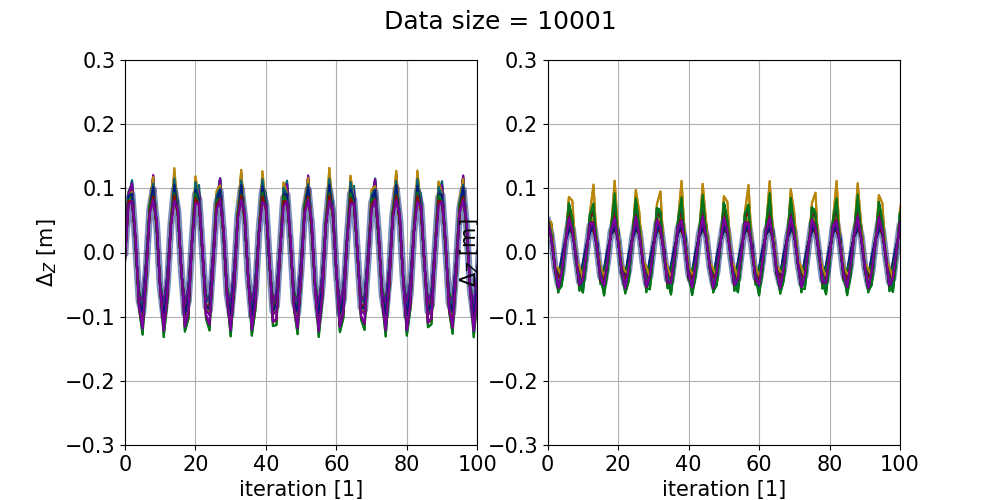
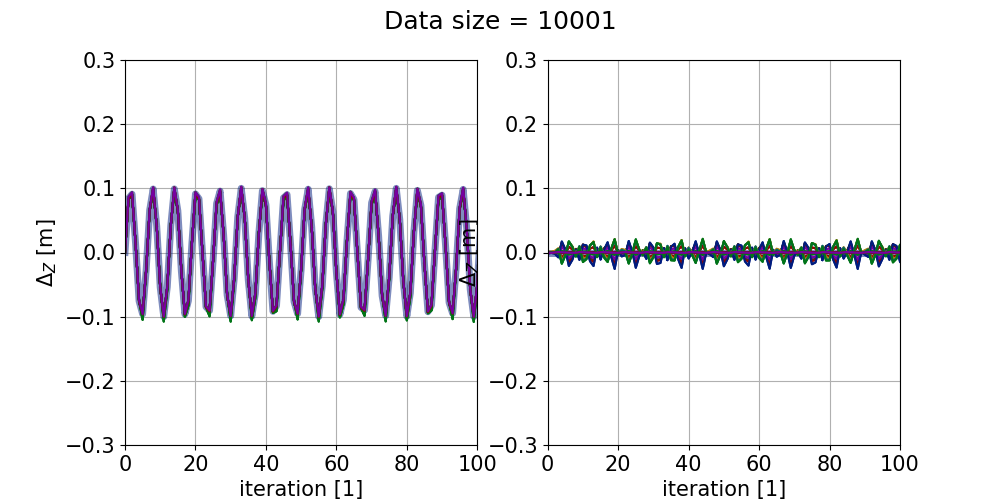
add csv result of CCD to save_path

Changed region(s): [[0.124, 0.33, 0.496, 0.66], [0.527, 0.36, 0.899, 0.6]]

diff --git a/simulation/simulation_toroidal_filament.py b/simulation/simulation_toroidal_filament.py
@@ -4,17 +4,22 @@ import os
 import numpy as np
 import pandas as pd
 
+# import matplotlib
+# matplotlib.use("QtAgg")
+
 sys.path.append(os.path.abspath(os.path.join(os.path.dirname(__file__), '..')))
 
 from methods_script.toroidal_filament.DxDz import cal_newton_DxDz as cal_DxDz
 from methods_script.toroidal_filament.plasma_shift import toroidal_filament_shift_progression
 from methods_script.toroidal_filament.signal_strength import coil_signal
-from methods_script.toroidal_filament.parameters import coil_angle_dict, R0, R, all_arrays, probe_lst_to_str
+from methods_script.toroidal_filament.parameters import coil_angle_dict, R0, R, all_arrays, probe_lst_to_str, I
 ### simulate magnetic probe signal
 plt.rcParams.update({
     "font.size":15
 })
 plt.style.use("seaborn-v0_8-dark-palette")
+
+save_path = "/home/piti-archlinux/Projects/TT1/TT1-EFIT"
 
 np.random.seed(0)
 def simulate_signal_df(dR_all, dZ_all):
@@ -62,70 +67,93 @@ def add_absolute_err(df:pd.DataFrame):
 if __name__ == "__main__":
     #define simulation parameters
 
-    R_amp, Z_amp = 0.1, 0.05    #Amplitudes of R and Z oscillation
-    iteration_array = pd.Series(np.arange(0,10_001,1)) # iteration steps
-    #define displacement of dR and dZ at all iterations
-    dR_all, dZ_all = pd.Series(R_amp * np.sin(iteration_array),name = "defined"), pd.Series(Z_amp * np.cos(iteration_array), name = "defined")
+    R_amp, Z_amp = 0.1, 0.0
+
+    iteration_array = pd.Series(np.linspace(0, 440, 200) / 1000.0)
+
+    phase = 2 * np.pi * iteration_array / iteration_array.max()
+
+    dR_all = pd.Series( 
+        R_amp * np.sin(
+            2 * np.pi * (iteration_array)
+            / (iteration_array.iloc[-1])
+        ), name = "defined"
+    )
+
+    dZ_all = pd.Series(
+        Z_amp * np.cos(phase),
+        name="defined"
+    )
 
     use_probes = all_arrays # set of magnetic probes to use in toroidal filament model
 
     #simulate magnetic field table
     signal_df = simulate_signal_df(dR_all, dZ_all)
 
-    ### calculate plasma shift
-    valid_iteration, R_arr, R_err, Z_arr, Z_err =  toroidal_filament_shift_progression(iteration_array,signal_df,use_probes)
+    tfm_df = pd.concat(
+        [dR_all.rename("R0") + R0, dZ_all.rename("Z0"), signal_df],
+        axis=1
+        )
+    tfm_df["Time step"] = iteration_array
+    tfm_df["Ip"] = I * np.ones_like(iteration_array)
 
-    #convert calculation result of each probe into data frame
-    dR_df = pd.DataFrame(data = np.array(R_arr).transpose(), columns = [probe_lst_to_str(probe_set) for probe_set in use_probes])
-    dZ_df = pd.DataFrame(data = np.array(Z_arr).transpose(), columns = [probe_lst_to_str(probe_set) for probe_set in use_probes])
+    tfm_df.to_csv(os.path.join(save_path,"tfm_df.csv"), index=False)
+    
 
-    #adjust index of dataframe
-    # Due to predefined shift_value at (0,0) in plasma_shift.py the row indices of defined and calculated are mismatched
+    # ### calculate plasma shift
+    # valid_iteration, R_arr, R_err, Z_arr, Z_err =  toroidal_filament_shift_progression(iteration_array,signal_df,use_probes)
 
-    def adjust_index(df:pd.DataFrame):
-        for col in df.columns:
-            df[col] = df[col].iloc[1:].reset_index(drop=True)
-        return
-    adjust_index(dR_df)
-    adjust_index(dZ_df)
+    # #convert calculation result of each probe into data frame
+    # dR_df = pd.DataFrame(data = np.array(R_arr).transpose(), columns = [probe_lst_to_str(probe_set) for probe_set in use_probes])
+    # dZ_df = pd.DataFrame(data = np.array(Z_arr).transpose(), columns = [probe_lst_to_str(probe_set) for probe_set in use_probes])
 
-    #add defined value of displacement
-    dR_df = pd.concat([dR_df, dR_all], axis = 1)
-    dZ_df = pd.concat([dZ_df, dZ_all], axis = 1)
+    # #adjust index of dataframe
+    # # Due to predefined shift_value at (0,0) in plasma_shift.py the row indices of defined and calculated are mismatched
 
-    add_absolute_err(dR_df)
-    add_absolute_err(dZ_df)
-    error_txt_path = os.path.join("simulation","TFM_error")
-    dR_df.filter(like = "error",axis = 1).describe().to_string(os.path.join(error_txt_path,"radialError.txt"))
-    dZ_df.filter(like = "error",axis = 1).describe().to_string(os.path.join(error_txt_path, "verticalError.txt"))
+    # def adjust_index(df:pd.DataFrame):
+    #     for col in df.columns:
+    #         df[col] = df[col].iloc[1:].reset_index(drop=True)
+    #     return
+    # adjust_index(dR_df)
+    # adjust_index(dZ_df)
 
-    print(f"Simulation statistic saved to {error_txt_path}")
+    # #add defined value of displacement
+    # dR_df = pd.concat([dR_df, dR_all], axis = 1)
+    # dZ_df = pd.concat([dZ_df, dZ_all], axis = 1)
 
-    fig, ax = plt.subplots(1,2,figsize = (10,5))
+    # add_absolute_err(dR_df)
+    # add_absolute_err(dZ_df)
+    # error_txt_path = os.path.join("simulation","TFM_error")
+    # dR_df.filter(like = "error",axis = 1).describe().to_string(os.path.join(error_txt_path,"radialError.txt"))
+    # dZ_df.filter(like = "error",axis = 1).describe().to_string(os.path.join(error_txt_path, "verticalError.txt"))
 
-    ax[0].plot(iteration_array, dR_all, label = "R sim", lw = 5, alpha = 0.5)
-    for iter, R,Re, probes in zip(valid_iteration, R_arr,R_err,use_probes):
-        line, = ax[0].plot(iter,R,label = f"{probes}")
-        ax[0].errorbar(iter,R,yerr = Re,color = line.get_color())
-    ax[0].set_xlabel("iteration [1]")
-    ax[0].set_ylabel(r"$\Delta_Z$ [m]")
-    ax[0].grid()
+    # print(f"Simulation statistic saved to {error_txt_path}")
 
-    ax[1].plot(iteration_array, dZ_all, lw = 5, alpha = 0.5)
-    for iter, Z,Ze, probes in zip(valid_iteration, Z_arr,Z_err, use_probes):
-        line, = ax[1].plot(iter,Z)
-        ax[1].errorbar(iter,Z,yerr=Ze, color = line.get_color())
-    ax[1].set_xlabel("iteration [1]")
-    ax[1].set_ylabel(r"$\Delta_Z$ [m]")
-    ax[1].grid()
+    # fig, ax = plt.subplots(1,2,figsize = (10,5))
 
-    for a in ax:
-        a.set_ylim(-0.3,0.3)
-        a.set_xlim(0,100)
+    # ax[0].plot(iteration_array, dR_all, label = "R sim", lw = 5, alpha = 0.5)
+    # for iter, R,Re, probes in zip(valid_iteration, R_arr,R_err,use_probes):
+    #     line, = ax[0].plot(iter,R,label = f"{probes}")
+    #     ax[0].errorbar(iter,R,yerr = Re,color = line.get_color())
+    # ax[0].set_xlabel("iteration [1]")
+    # ax[0].set_ylabel(r"$\Delta_Z$ [m]")
+    # ax[0].grid()
 
-    fig.suptitle(f"Data size = {len(iteration_array)}")
+    # ax[1].plot(iteration_array, dZ_all, lw = 5, alpha = 0.5)
+    # for iter, Z,Ze, probes in zip(valid_iteration, Z_arr,Z_err, use_probes):
+    #     line, = ax[1].plot(iter,Z)
+    #     ax[1].errorbar(iter,Z,yerr=Ze, color = line.get_color())
+    # ax[1].set_xlabel("iteration [1]")
+    # ax[1].set_ylabel(r"$\Delta_Z$ [m]")
+    # ax[1].grid()
 
-    save_path = os.path.join("result_plot","shift_simulation","TFM_simulation_error")
+    # for a in ax:
+    #     a.set_ylim(-0.3,0.3)
+    #     a.set_xlim(0,100)
 
-    plt.savefig(save_path)
-    print(f"Simulation image saved to {save_path}")
+    # fig.suptitle(f"Data size = {len(iteration_array)}")
+
+    # save_path = os.path.join("result_plot","shift_simulation","TFM_simulation_error")
+
+    # plt.savefig(save_path)
+    # print(f"Simulation image saved to {save_path}")

diff --git a/main.py b/main.py
@@ -25,17 +25,18 @@ plt.style.use("seaborn-v0_8-dark-palette")
 ##################### Parameter setup ############################################
 #`specifies number of all shots to run calculation on 
 # !!!the `data/shot_number` directory must exist before hand!!! See README file
+#shot_lst = [int(shot_num) for shot_num in os.listdir("data") if shot_num.isnumeric()]
 shot_lst = [1641]
 
 #define what methods to use
-use_toroidal_filament_model = True              #if false the model will be skipped
+use_toroidal_filament_model = False              #if false the model will be skipped
 use_calibration_plane_transformation = True     #if false the model will be skipped
 
 #If true, then save edge detection image of each frame in result_plot/edge_detection/shot_number
 edge_detection_image = False
 
 #frames interval to skip in calibration plane (frame_step = 1) to use all frames
-frame_step = 3
+frame_step = 1
 
 #save path of final plot
 save_directory = os.path.join("result_plot","calculation_result")
@@ -151,7 +152,7 @@ for shot_no in shot_lst:
 
             axZ.plot([], [], color="k", label="Edge detection")
 
-
+            calibration_plane_df.to_csv(os.path.join(save_directory,'displacementCCD.csv'))
         # --------------------------------
         # Axis labels, limits, extras
         # --------------------------------
@@ -164,7 +165,7 @@ for shot_no in shot_lst:
         labels = ["(a)", "(b)"]
         for i, axis in enumerate((axR, axZ)):
             axis.set_ylim(-0.2, 0.2)
-            axis.set_xlim(time.min(), time.max())
+            # axis.set_xlim(time.min(), time.max())
             axis.text(
                 0.02, 0.95, labels[i],
                 transform=axis.transAxes,
